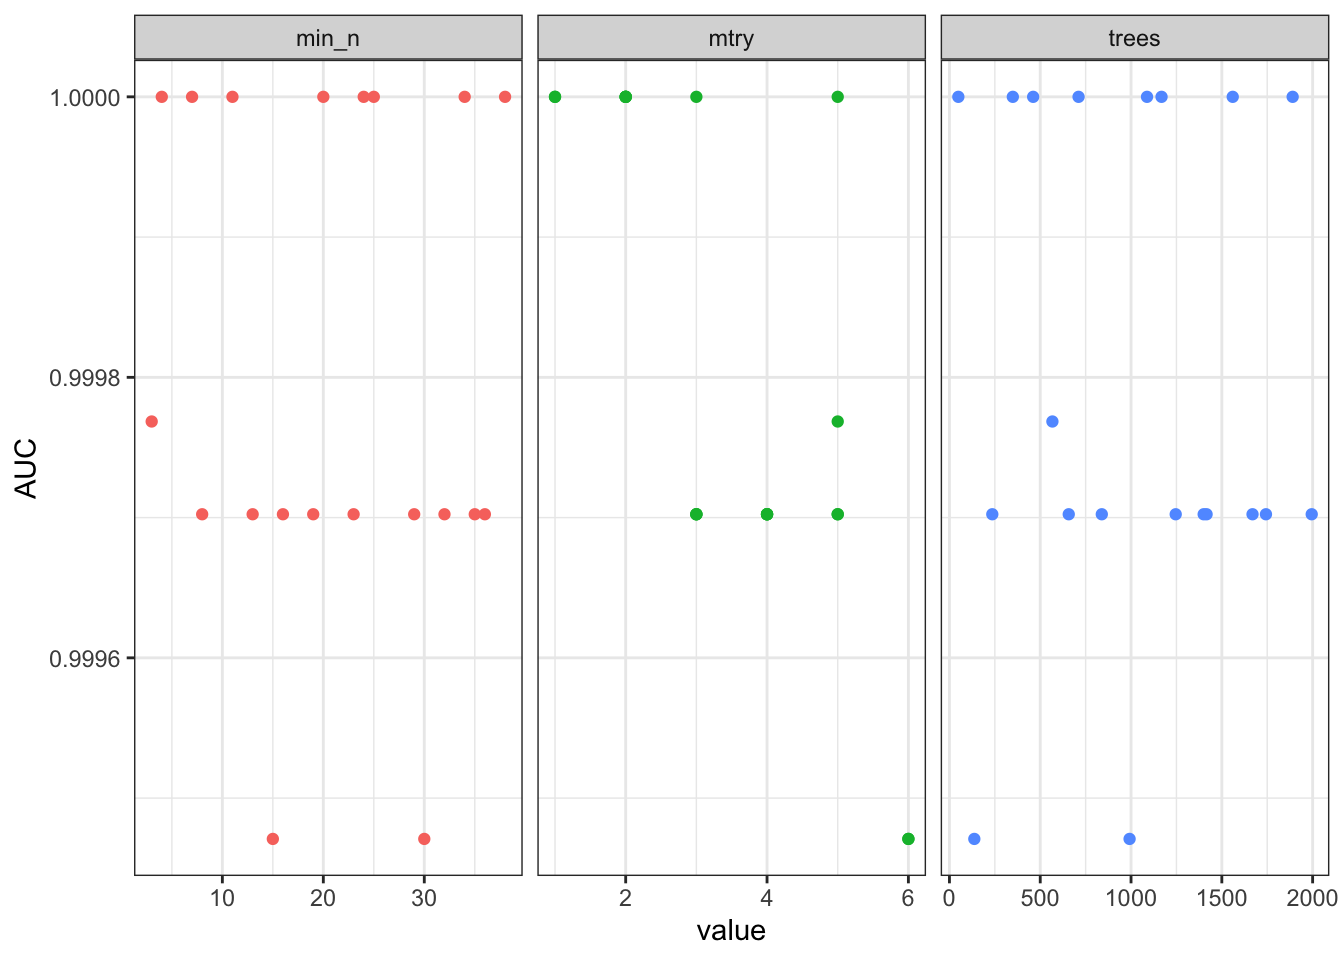
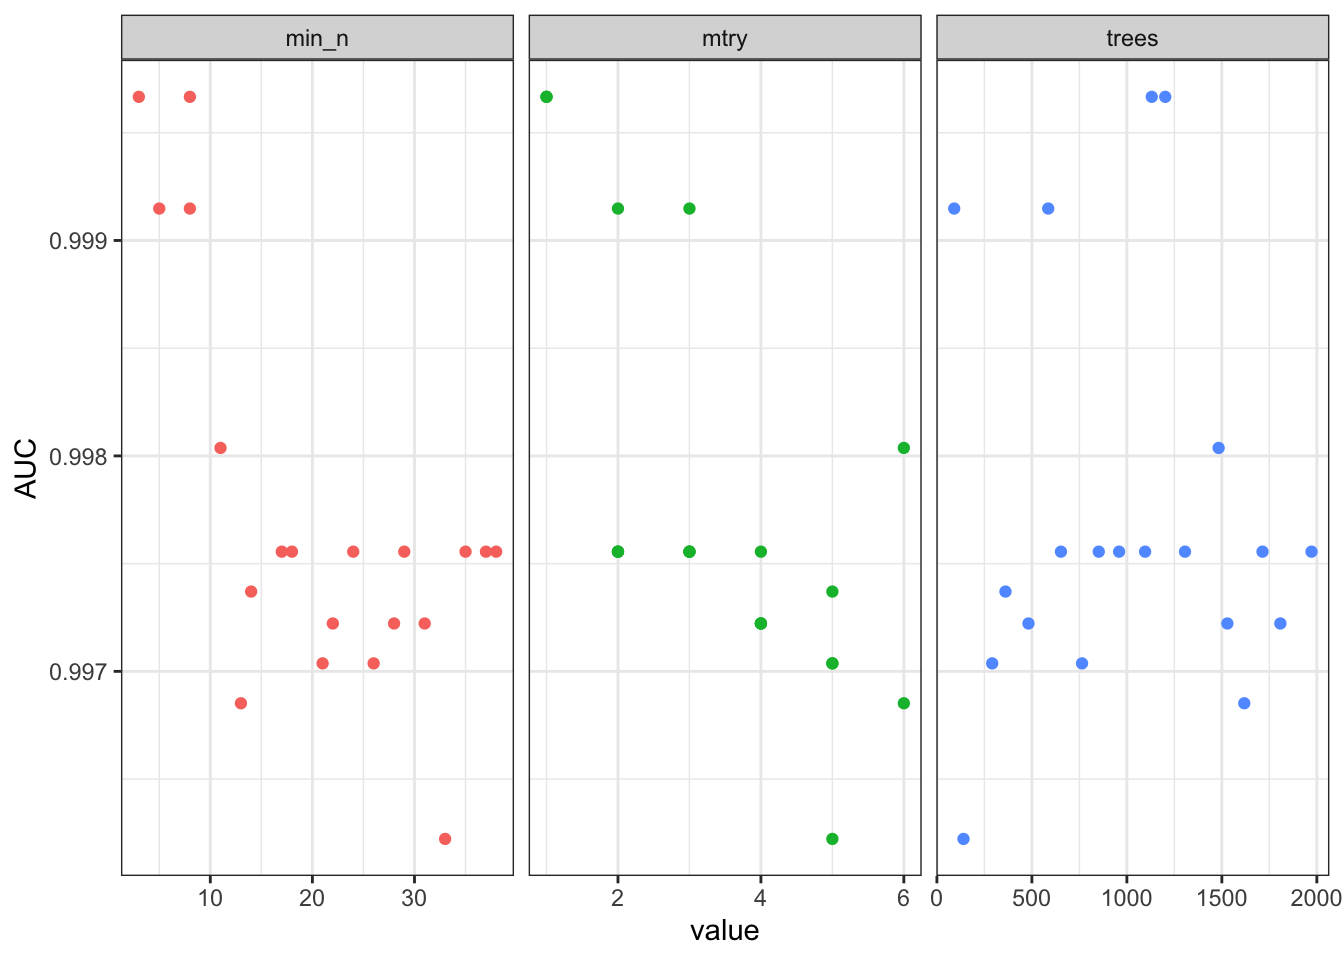
Added set.seed() to chunks involving random processes and updated descriptions to match results. Added a cross-reference to the variable importance in the report

diff --git a/docs/c17_clasif.html b/docs/c17_clasif.html
@@ -804,14 +804,15 @@ Nota
 <li><strong>Dividir los datos en datos de entrenamiento y prueba</strong>. Para esto utilizaremos las funciones <code>rsample::initial_split()</code> y <code>rsample::training()</code>. Además, remuestrearemos los datos de entrenamiento para realizar la validación cruzada y optimizar los hiper-parámetros del modelo con la función <code>rsample::vfold_cv()</code></li>
 </ol>
 <div class="cell">
-<div class="sourceCode cell-code" id="cb3"><pre class="sourceCode r code-with-copy"><code class="sourceCode r"><span id="cb3-1"><a href="#cb3-1" aria-hidden="true" tabindex="-1"></a><span class="co"># Dividimos los datos</span></span>
-<span id="cb3-2"><a href="#cb3-2" aria-hidden="true" tabindex="-1"></a>peng_split <span class="ot">&lt;-</span> rsample<span class="sc">::</span><span class="fu">initial_split</span>(peng_data)</span>
-<span id="cb3-3"><a href="#cb3-3" aria-hidden="true" tabindex="-1"></a></span>
-<span id="cb3-4"><a href="#cb3-4" aria-hidden="true" tabindex="-1"></a><span class="co"># Extraemos los datos de entrenamiento</span></span>
-<span id="cb3-5"><a href="#cb3-5" aria-hidden="true" tabindex="-1"></a>peng_train <span class="ot">&lt;-</span> rsample<span class="sc">::</span><span class="fu">training</span>(peng_split)</span>
-<span id="cb3-6"><a href="#cb3-6" aria-hidden="true" tabindex="-1"></a></span>
-<span id="cb3-7"><a href="#cb3-7" aria-hidden="true" tabindex="-1"></a><span class="co"># Datos para validación cruzada</span></span>
-<span id="cb3-8"><a href="#cb3-8" aria-hidden="true" tabindex="-1"></a>peng_cv <span class="ot">&lt;-</span> <span class="fu">vfold_cv</span>(peng_train)</span></code><button title="Copiar al portapapeles" class="code-copy-button"><i class="bi"></i></button></pre></div>
+<div class="sourceCode cell-code" id="cb3"><pre class="sourceCode r code-with-copy"><code class="sourceCode r"><span id="cb3-1"><a href="#cb3-1" aria-hidden="true" tabindex="-1"></a><span class="fu">set.seed</span>(<span class="dv">0</span>)</span>
+<span id="cb3-2"><a href="#cb3-2" aria-hidden="true" tabindex="-1"></a><span class="co"># Dividimos los datos</span></span>
+<span id="cb3-3"><a href="#cb3-3" aria-hidden="true" tabindex="-1"></a>peng_split <span class="ot">&lt;-</span> rsample<span class="sc">::</span><span class="fu">initial_split</span>(peng_data)</span>
+<span id="cb3-4"><a href="#cb3-4" aria-hidden="true" tabindex="-1"></a></span>
+<span id="cb3-5"><a href="#cb3-5" aria-hidden="true" tabindex="-1"></a><span class="co"># Extraemos los datos de entrenamiento</span></span>
+<span id="cb3-6"><a href="#cb3-6" aria-hidden="true" tabindex="-1"></a>peng_train <span class="ot">&lt;-</span> rsample<span class="sc">::</span><span class="fu">training</span>(peng_split)</span>
+<span id="cb3-7"><a href="#cb3-7" aria-hidden="true" tabindex="-1"></a></span>
+<span id="cb3-8"><a href="#cb3-8" aria-hidden="true" tabindex="-1"></a><span class="co"># Datos para validación cruzada</span></span>
+<span id="cb3-9"><a href="#cb3-9" aria-hidden="true" tabindex="-1"></a>peng_cv <span class="ot">&lt;-</span> <span class="fu">vfold_cv</span>(peng_train)</span></code><button title="Copiar al portapapeles" class="code-copy-button"><i class="bi"></i></button></pre></div>
 </div>
 <ol start="2" type="1">
 <li><strong>Preprocesar los datos</strong>. Para esto haremos lo que <code>tidymodels</code> denomina como una receta. Recordarás que los árboles de decisión no requieren prácticamente ningún tipo de preprocesamiento, pero centremos las variables numéricas para ejemplificar.
@@ -917,13 +918,14 @@ Nota
 </ol></li>
 </ol>
 <div class="cell">
-<div class="sourceCode cell-code" id="cb7"><pre class="sourceCode r code-with-copy"><code class="sourceCode r"><span id="cb7-1"><a href="#cb7-1" aria-hidden="true" tabindex="-1"></a><span class="co"># Asignar 8 núcleos para la computación en paralelo</span></span>
-<span id="cb7-2"><a href="#cb7-2" aria-hidden="true" tabindex="-1"></a><span class="co"># Revisa cuántos puedes disponer tú (más o menos)</span></span>
-<span id="cb7-3"><a href="#cb7-3" aria-hidden="true" tabindex="-1"></a>doParallel<span class="sc">::</span><span class="fu">registerDoParallel</span>(<span class="at">cores =</span> <span class="dv">8</span>)</span>
-<span id="cb7-4"><a href="#cb7-4" aria-hidden="true" tabindex="-1"></a><span class="co"># Buscar los mejores hiperparámetros de entre 20 valores</span></span>
-<span id="cb7-5"><a href="#cb7-5" aria-hidden="true" tabindex="-1"></a>tune_res <span class="ot">&lt;-</span> <span class="fu">tune_grid</span>(tune_wf,</span>
-<span id="cb7-6"><a href="#cb7-6" aria-hidden="true" tabindex="-1"></a>                      <span class="at">resamples =</span> peng_cv,</span>
-<span id="cb7-7"><a href="#cb7-7" aria-hidden="true" tabindex="-1"></a>                      <span class="at">grid =</span> <span class="dv">20</span>)</span></code><button title="Copiar al portapapeles" class="code-copy-button"><i class="bi"></i></button></pre></div>
+<div class="sourceCode cell-code" id="cb7"><pre class="sourceCode r code-with-copy"><code class="sourceCode r"><span id="cb7-1"><a href="#cb7-1" aria-hidden="true" tabindex="-1"></a><span class="fu">set.seed</span>(<span class="dv">123</span>)</span>
+<span id="cb7-2"><a href="#cb7-2" aria-hidden="true" tabindex="-1"></a><span class="co"># Asignar 8 núcleos para la computación en paralelo</span></span>
+<span id="cb7-3"><a href="#cb7-3" aria-hidden="true" tabindex="-1"></a><span class="co"># Revisa cuántos puedes disponer tú (más o menos)</span></span>
+<span id="cb7-4"><a href="#cb7-4" aria-hidden="true" tabindex="-1"></a>doParallel<span class="sc">::</span><span class="fu">registerDoParallel</span>(<span class="at">cores =</span> <span class="dv">8</span>)</span>
+<span id="cb7-5"><a href="#cb7-5" aria-hidden="true" tabindex="-1"></a><span class="co"># Buscar los mejores hiperparámetros de entre 20 valores</span></span>
+<span id="cb7-6"><a href="#cb7-6" aria-hidden="true" tabindex="-1"></a>tune_res <span class="ot">&lt;-</span> <span class="fu">tune_grid</span>(tune_wf,</span>
+<span id="cb7-7"><a href="#cb7-7" aria-hidden="true" tabindex="-1"></a>                      <span class="at">resamples =</span> peng_cv,</span>
+<span id="cb7-8"><a href="#cb7-8" aria-hidden="true" tabindex="-1"></a>                      <span class="at">grid =</span> <span class="dv">20</span>)</span></code><button title="Copiar al portapapeles" class="code-copy-button"><i class="bi"></i></button></pre></div>
 <div class="cell-output cell-output-stderr">
 <pre><code>i Creating pre-processing data to finalize unknown parameter: mtry</code></pre>
 </div>
@@ -1028,8 +1030,8 @@ Nota
 <pre><code>Random Forest Model Specification (classification)
 
 Main Arguments:
-  mtry = 2
-  trees = 700
+  mtry = 1
+  trees = 800
   min_n = 5
 
 Computational engine: ranger </code></pre>
@@ -1055,7 +1057,12 @@ Computational engine: ranger </code></pre>
 <span id="cb13-14"><a href="#cb13-14" aria-hidden="true" tabindex="-1"></a>  <span class="fu">labs</span>(<span class="at">title =</span> <span class="st">"Importancia de variables"</span>,</span>
 <span id="cb13-15"><a href="#cb13-15" aria-hidden="true" tabindex="-1"></a>       <span class="at">y =</span> <span class="fu">element_blank</span>())</span></code><button title="Copiar al portapapeles" class="code-copy-button"><i class="bi"></i></button></pre></div>
 <div class="cell-output-display">
-<p><img src="c17_clasif_files/figure-html/unnamed-chunk-11-1.png" class="img-fluid" width="672"></p>
+<div id="fig-varimp" class="quarto-figure quarto-figure-center anchored">
+<figure class="figure">
+<p><img src="c17_clasif_files/figure-html/fig-varimp-1.png" class="img-fluid figure-img" width="672"></p>
+<p></p><figcaption class="figure-caption">Figura&nbsp;17.12: Importancia de variables del bosque aleatorio</figcaption><p></p>
+</figure>
+</div>
 </div>
 </div>
 <ol start="10" type="1">
@@ -1078,7 +1085,7 @@ Computational engine: ranger </code></pre>
 
 <div data-pagedtable="false">
   <script data-pagedtable-source="" type="application/json">
-{"columns":[{"label":[".metric"],"name":[1],"type":["chr"],"align":["left"]},{"label":[".estimator"],"name":[2],"type":["chr"],"align":["left"]},{"label":[".estimate"],"name":[3],"type":["dbl"],"align":["right"]},{"label":[".config"],"name":[4],"type":["chr"],"align":["left"]}],"data":[{"1":"accuracy","2":"multiclass","3":"0.9879518","4":"Preprocessor1_Model1"},{"1":"roc_auc","2":"hand_till","3":"0.9971361","4":"Preprocessor1_Model1"}],"options":{"columns":{"min":{},"max":[10]},"rows":{"min":[10],"max":[10]},"pages":{}}}
+{"columns":[{"label":[".metric"],"name":[1],"type":["chr"],"align":["left"]},{"label":[".estimator"],"name":[2],"type":["chr"],"align":["left"]},{"label":[".estimate"],"name":[3],"type":["dbl"],"align":["right"]},{"label":[".config"],"name":[4],"type":["chr"],"align":["left"]}],"data":[{"1":"accuracy","2":"multiclass","3":"1","4":"Preprocessor1_Model1"},{"1":"roc_auc","2":"hand_till","3":"1","4":"Preprocessor1_Model1"}],"options":{"columns":{"min":{},"max":[10]},"rows":{"min":[10],"max":[10]},"pages":{}}}
   </script>
 </div>
 </div>
@@ -1114,7 +1121,7 @@ Importante
 <li><strong>Elaborar el reporte</strong> ¿Cómo reportamos todo esto? Te recomiendo que le eches un ojo a <span class="citation" data-cites="EnriquezGarciaetal_2022">Enríquez-García et&nbsp;al. (<a href="references.html#ref-EnriquezGarciaetal_2022" role="doc-biblioref">2022</a>)</span> para ver cómo describir el método, pero los resultados podemos resumirlos como:</li>
 </ol>
 <blockquote class="blockquote">
-<p>El bosque aleatorio tuvo un excelente desempeño sin sobreajustar (AUC-ROC = 0.99 en los datos de entrenamiento). Las variables más importantes para la clasificación fueron la longitud del culmen (<span class="math inline">\(\approx 14\%\)</span>), seguida de la longitud de la aleta (<span class="math inline">\(\approx 12.5\%\)</span>). El bosque aleatorio optimizado estuvo compuesto por 700 árboles, cada uno formado con un predictor (<code>mtry</code>), considerando al menos 5 observaciones para poder hacer una división (<code>n_min</code>).</p>
+<p>El bosque aleatorio tuvo un excelente desempeño sin sobreajustar (AUC-ROC = 0.99 en los datos de entrenamiento). Las variables más importantes para la clasificación fueron la longitud del culmen (<span class="math inline">\(\approx 17\%\)</span>), seguida de la longitud de la aleta (<span class="math inline">\(\approx 12.5\%\)</span>; <a href="#fig-varimp">Figura&nbsp;<span>17.12</span></a>). El bosque aleatorio optimizado estuvo compuesto por 800 árboles, cada uno formado con un predictor (<code>mtry</code>), considerando al menos 5 observaciones para poder hacer una división (<code>n_min</code>).</p>
 </blockquote>
 <p>Esto fue todo para este (espero) motivante capítulo, donde entramos de lleno al mundo del aprendizaje supervisado. Me hubiera gustado darte un poco menos de teoría, pero aplicar modelos de aprendizaje automatizado es algo que requiere que pongamos muchísima atención a qué es lo que hacemos en cada paso y por qué, pues es muy fácil que resbalemos y que terminemos presumiendo un modelo sobreajustado. Voy a confirmar tus sospechas: también hay que verificar que nuestras regresiones no estén sobreajustadas, pero eso lo dejamos para la siguiente sesión.</p>
 </section>
